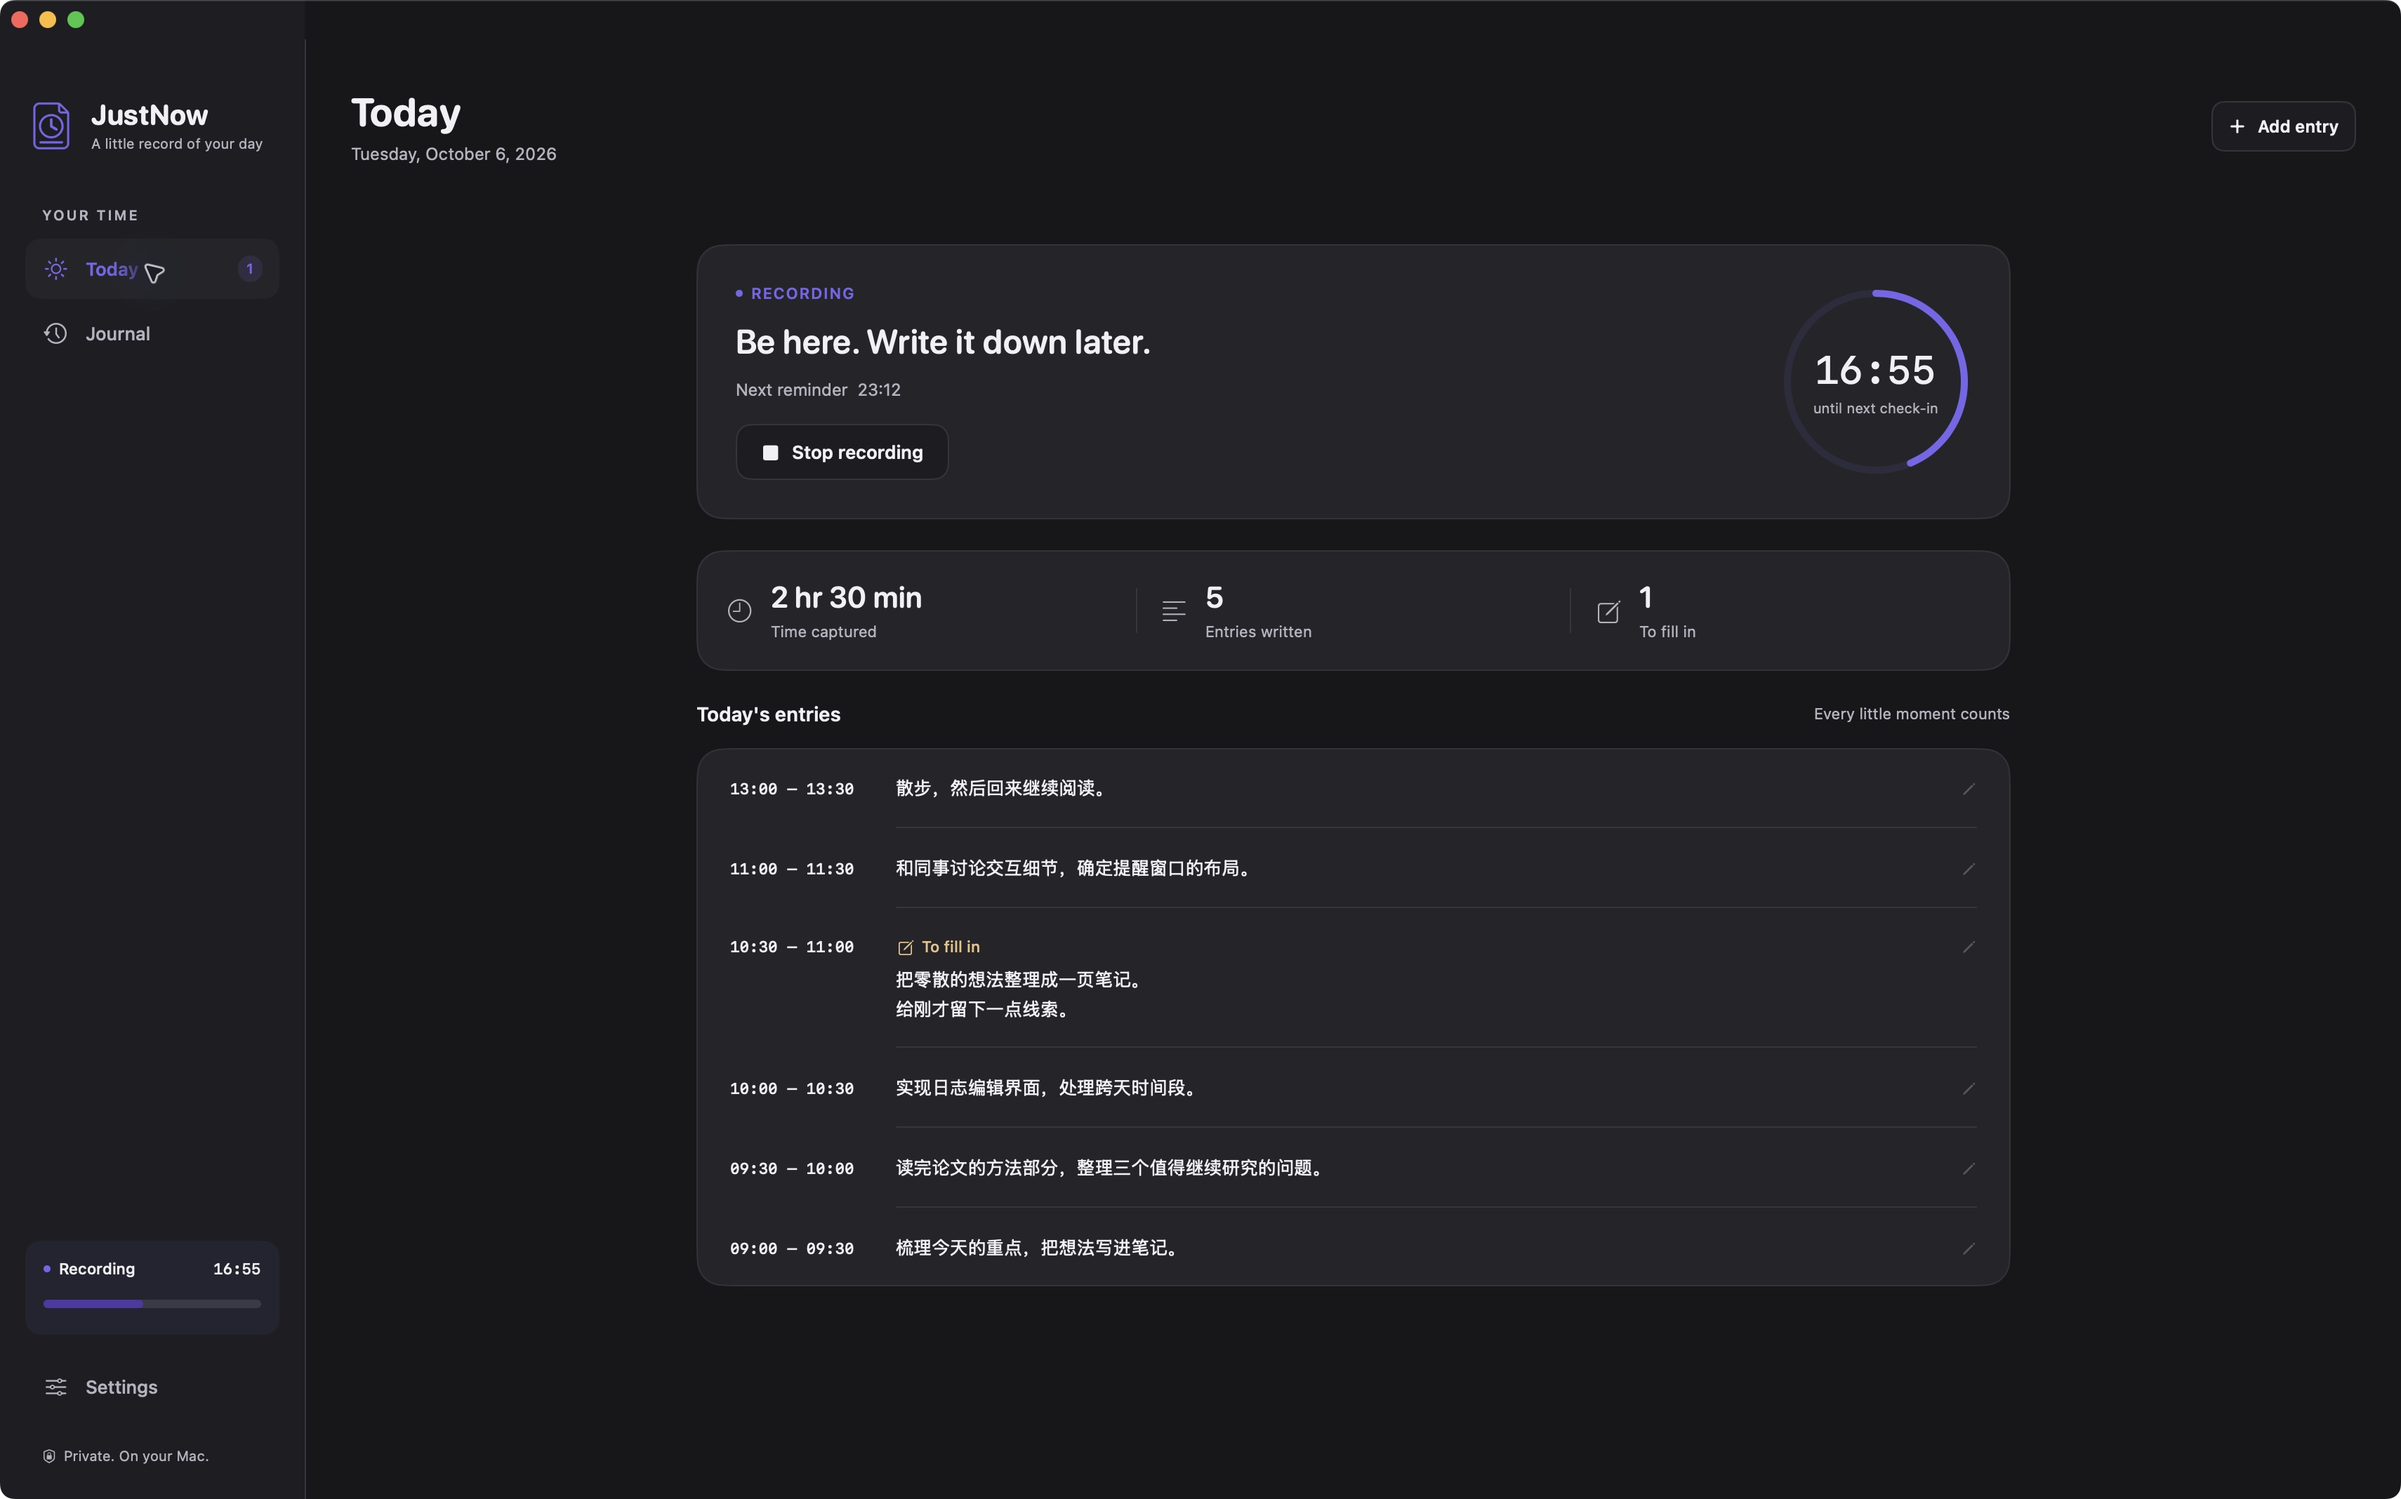
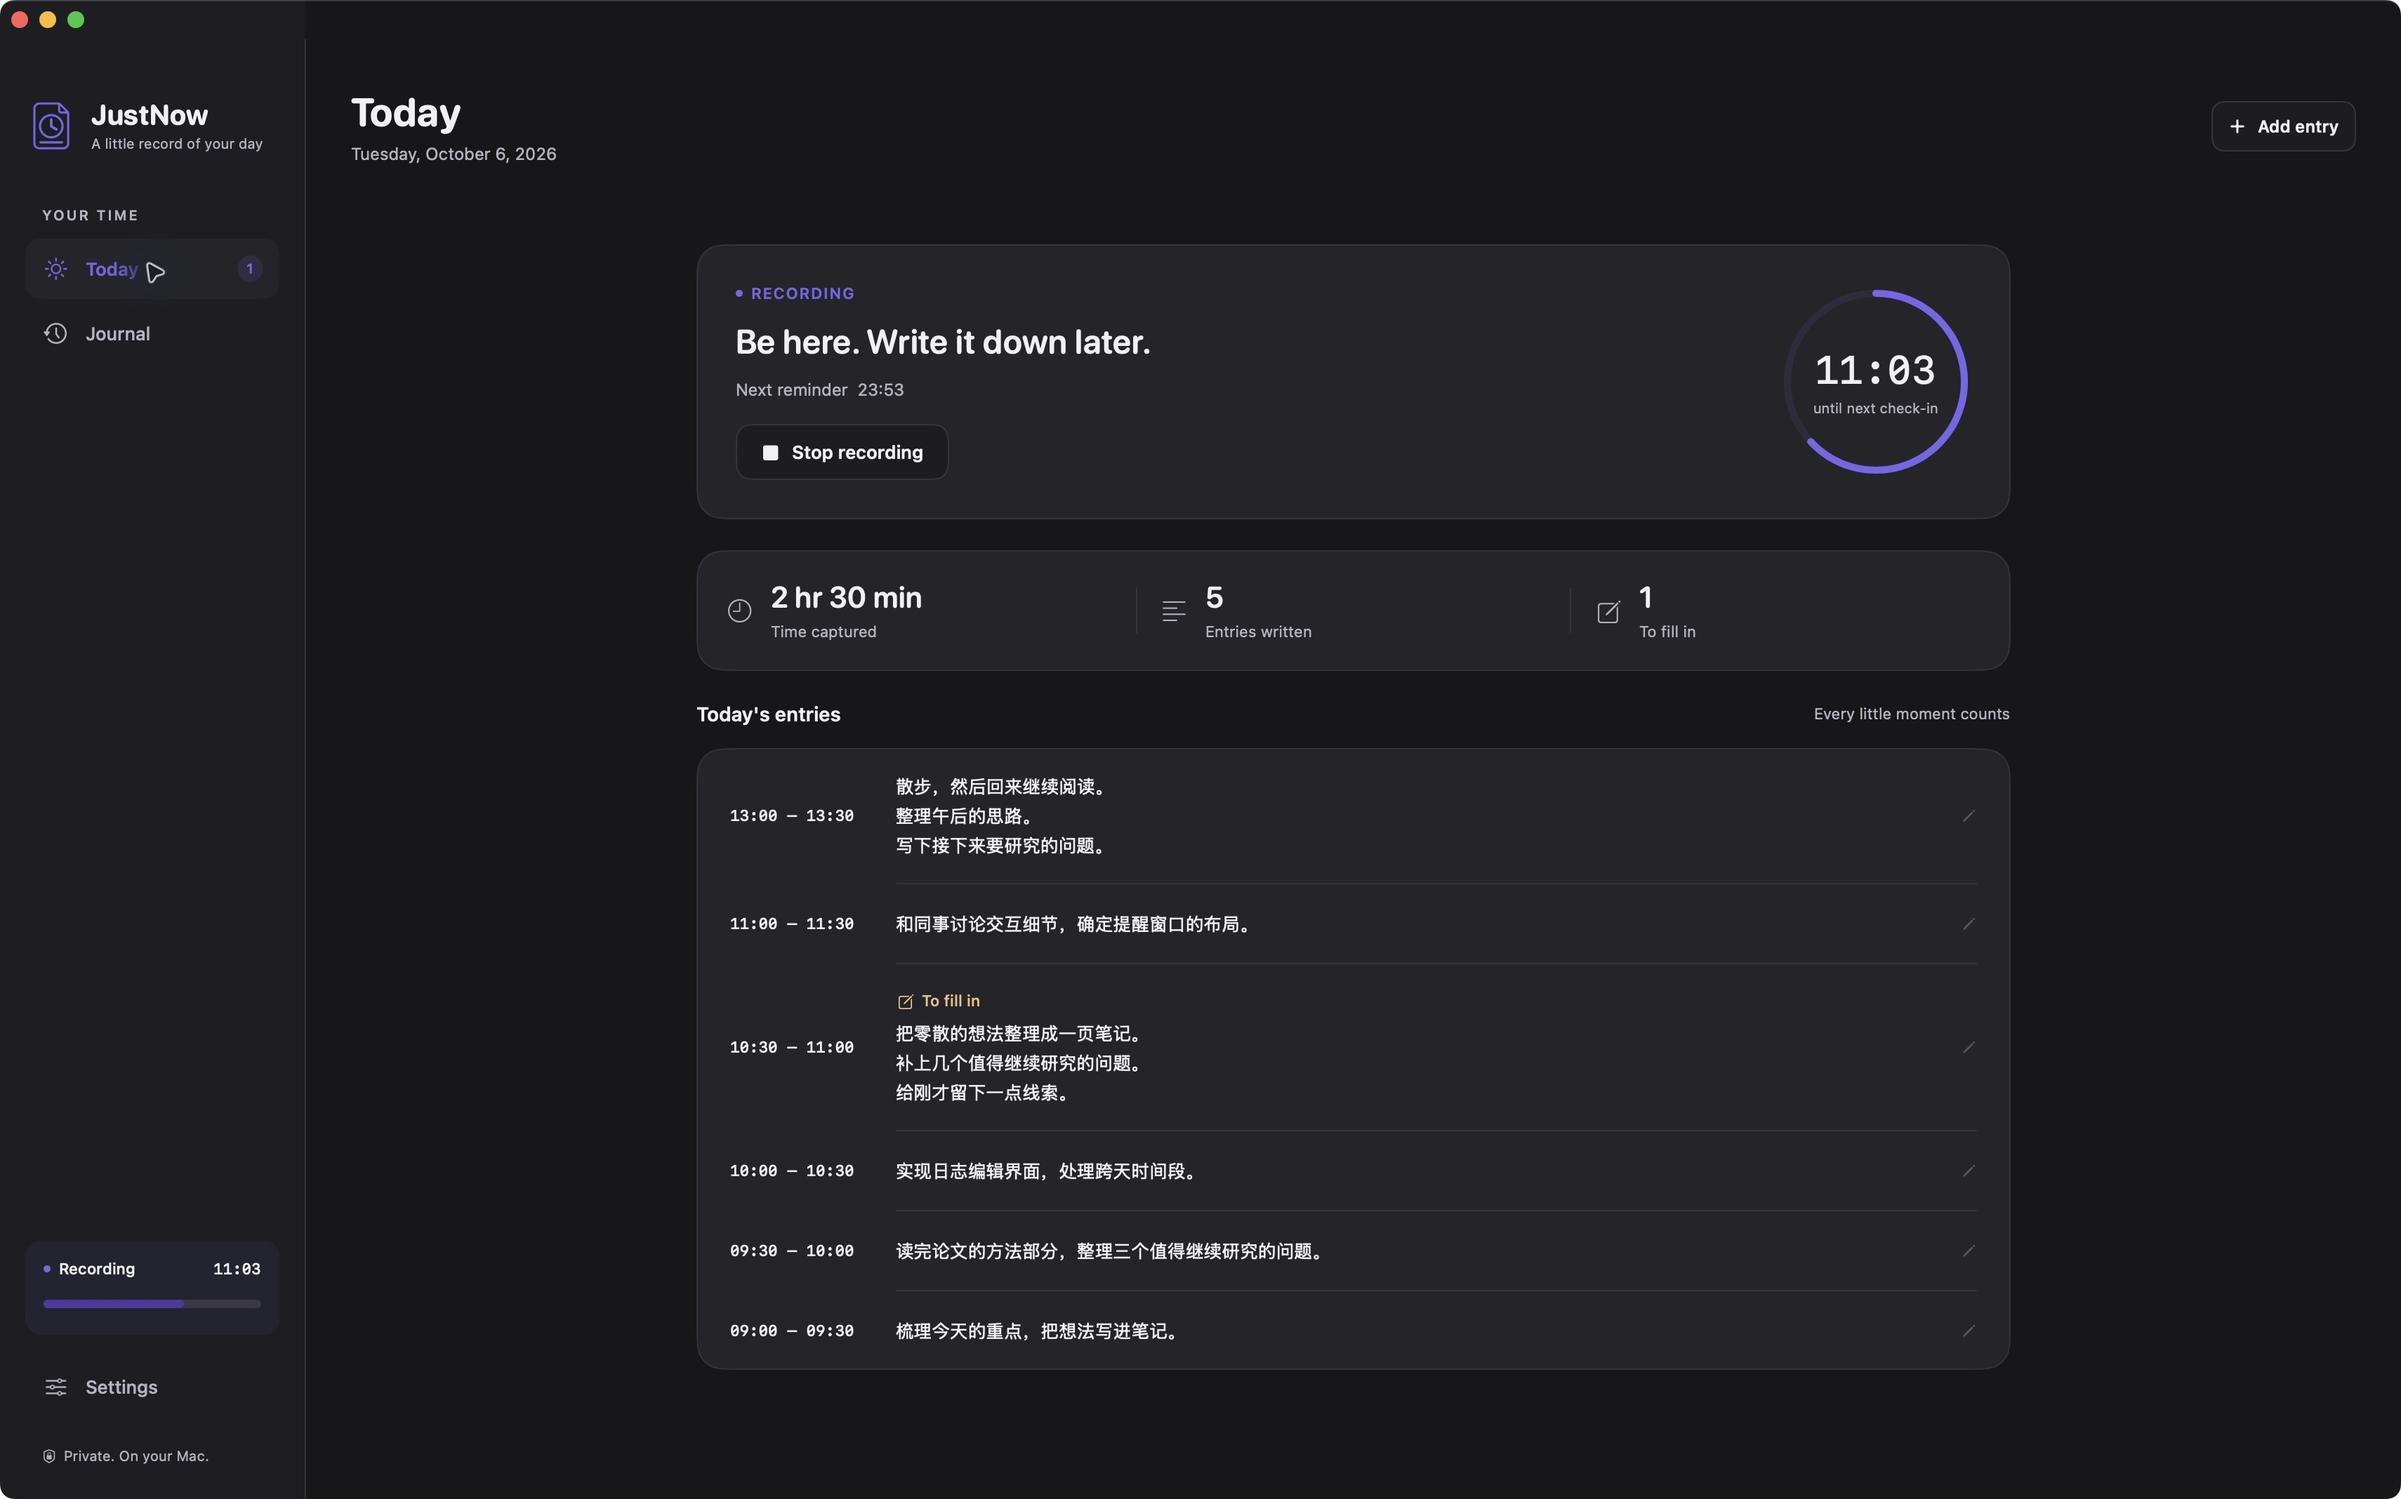
Center timeline rows and simplify time selection

diff --git a/Sources/JustNow/Controls.swift b/Sources/JustNow/Controls.swift
@@ -349,7 +349,7 @@ private struct JournalTimeChooser: View {
     let close: () -> Void
     @State private var hour: Int
     @State private var minute: Int
-    @State private var minuteGroup: Int
+    @State private var choosingHour = true
     private let calendar = Calendar(identifier: .gregorian)
     private var chinese: Bool { locale.identifier.hasPrefix("zh") }
     private var selectedDate: Date? { CalendarSelection.replacingTime(of: date, hour: hour, minute: minute, calendar: calendar) }
@@ -360,48 +360,53 @@ private struct JournalTimeChooser: View {
         self.close = close
         let calendar = Calendar(identifier: .gregorian)
         _hour = State(initialValue: calendar.component(.hour, from: date.wrappedValue))
-        let minute = calendar.component(.minute, from: date.wrappedValue)
-        _minute = State(initialValue: minute)
-        _minuteGroup = State(initialValue: minute / 10)
+        _minute = State(initialValue: calendar.component(.minute, from: date.wrappedValue))
     }
 
     var body: some View {
         VStack(alignment: .leading, spacing: 16) {
-            HStack(alignment: .firstTextBaseline) {
-                Text(chinese ? "选择时间" : "Choose time").font(.system(size: 13, weight: .semibold))
-                Spacer()
-                Text(String(format: "%02d:%02d", hour, minute))
-                    .font(.system(size: 22, weight: .medium, design: .rounded)).monospacedDigit().foregroundStyle(Theme.accent)
+            HStack(spacing: 8) {
+                Button { choosingHour = true } label: {
+                    VStack(spacing: 4) {
+                        Text(chinese ? "小时" : "Hour").font(.system(size: 11)).foregroundStyle(Theme.secondary)
+                        Text(String(format: "%02d", hour)).font(.system(size: 22, weight: .medium, design: .rounded)).monospacedDigit()
+                    }
+                    .calendarChoiceLabel(height: 64)
+                }
+                .buttonStyle(CalendarChoiceStyle(selected: choosingHour))
+                .accessibilityLabel(chinese ? "选择小时" : "Choose hour")
+                .accessibilityValue(String(format: "%02d", hour))
+                .accessibilityAddTraits(choosingHour ? .isSelected : [])
+                Text(":").font(.system(size: 22, weight: .medium)).foregroundStyle(Theme.secondary)
+                Button { choosingHour = false } label: {
+                    VStack(spacing: 4) {
+                        Text(chinese ? "分钟" : "Minute").font(.system(size: 11)).foregroundStyle(Theme.secondary)
+                        Text(String(format: "%02d", minute)).font(.system(size: 22, weight: .medium, design: .rounded)).monospacedDigit()
+                    }
+                    .calendarChoiceLabel(height: 64)
+                }
+                .buttonStyle(CalendarChoiceStyle(selected: !choosingHour))
+                .accessibilityLabel(chinese ? "选择分钟" : "Choose minute")
+                .accessibilityValue(String(format: "%02d", minute))
+                .accessibilityAddTraits(!choosingHour ? .isSelected : [])
             }
             VStack(alignment: .leading, spacing: 8) {
-                Text(chinese ? "小时 · 24 小时制" : "Hour · 24-hour clock")
-                    .font(.system(size: 11)).foregroundStyle(Theme.secondary)
+                HStack {
+                    Text(choosingHour ? (chinese ? "选择小时" : "Choose an hour") : (chinese ? "选择分钟" : "Choose a minute"))
+                    Spacer()
+                    Text(chinese ? "24 小时制" : "24-hour clock")
+                }
+                .font(.system(size: 11)).foregroundStyle(Theme.secondary)
                 LazyVGrid(columns: Array(repeating: GridItem(.flexible(), spacing: 4), count: 6), spacing: 4) {
-                    ForEach(0..<24) { value in
-                        Button { hour = value } label: { Text(String(format: "%02d", value)).monospacedDigit().calendarChoiceLabel() }
-                            .buttonStyle(CalendarChoiceStyle(selected: hour == value))
-                            .accessibilityLabel(chinese ? "\(value)时" : "Hour \(value)")
-                            .accessibilityAddTraits(hour == value ? .isSelected : [])
-                    }
-                }
-            }
-            VStack(alignment: .leading, spacing: 8) {
-                Text(chinese ? "分钟" : "Minute").font(.system(size: 11)).foregroundStyle(Theme.secondary)
-                HStack(spacing: 4) {
-                    ForEach(0..<6) { group in
-                        Button { minuteGroup = group } label: { Text(String(format: "%02d–%02d", group * 10, group * 10 + 9)).font(.system(size: 10, weight: .medium)).monospacedDigit().calendarChoiceLabel() }
-                            .buttonStyle(CalendarChoiceStyle(selected: minuteGroup == group))
-                            .accessibilityLabel(chinese ? "\(group * 10)至\(group * 10 + 9)分" : "Minutes \(group * 10) to \(group * 10 + 9)")
-                            .accessibilityAddTraits(minuteGroup == group ? .isSelected : [])
-                    }
-                }
-                LazyVGrid(columns: Array(repeating: GridItem(.flexible(), spacing: 4), count: 5), spacing: 4) {
-                    ForEach((minuteGroup * 10)..<(minuteGroup * 10 + 10), id: \.self) { value in
-                        Button { minute = value } label: { Text(String(format: "%02d", value)).monospacedDigit().calendarChoiceLabel() }
-                            .buttonStyle(CalendarChoiceStyle(selected: minute == value))
-                            .disabled(CalendarSelection.replacingTime(of: date, hour: hour, minute: value, calendar: calendar) == nil)
-                            .accessibilityLabel(chinese ? "\(value)分" : "Minute \(value)")
-                            .accessibilityAddTraits(minute == value ? .isSelected : [])
+                    ForEach(0..<(choosingHour ? 24 : 60), id: \.self) { value in
+                        Button {
+                            if choosingHour { hour = value; choosingHour = false }
+                            else { minute = value }
+                        } label: { Text(String(format: "%02d", value)).monospacedDigit().calendarChoiceLabel() }
+                        .buttonStyle(CalendarChoiceStyle(selected: (choosingHour ? hour : minute) == value))
+                        .disabled(!choosingHour && CalendarSelection.replacingTime(of: date, hour: hour, minute: value, calendar: calendar) == nil)
+                        .accessibilityLabel(choosingHour ? (chinese ? "\(value)时" : "Hour \(value)") : (chinese ? "\(value)分" : "Minute \(value)"))
+                        .accessibilityAddTraits((choosingHour ? hour : minute) == value ? .isSelected : [])
                     }
                 }
             }
@@ -440,6 +445,7 @@ private struct CalendarChoiceSurface: View {
     let today: Bool
     @Environment(\.isEnabled) private var enabled
     @Environment(\.isFocused) private var focused
+    @Environment(\.colorScheme) private var colorScheme
     @State private var hovering = false
 
     var body: some View {
@@ -447,7 +453,7 @@ private struct CalendarChoiceSurface: View {
         configuration.label
             .font(.system(size: 12, weight: selected || today ? .semibold : .medium))
             .lineLimit(1).minimumScaleFactor(0.85)
-            .foregroundStyle(selected || today ? Theme.accent : Theme.ink)
+            .foregroundStyle((selected || today) && colorScheme != .dark ? Theme.accent : Theme.ink)
             .background(selected ? Theme.accent.opacity(0.14) : hovering ? Theme.inset : .clear, in: shape)
             .overlay(shape.strokeBorder(focused ? Theme.accent.opacity(0.6) : today ? Theme.accent.opacity(0.25) : .clear))
             .opacity(enabled ? configuration.isPressed ? 0.65 : 1 : 0.3)

diff --git a/Sources/JustNow/Views.swift b/Sources/JustNow/Views.swift
@@ -363,7 +363,7 @@ private struct EntryRow: View {
     @State private var hovering = false
     var body: some View {
         Button { model.openEditor(entry) } label: {
-            HStack(alignment: .firstTextBaseline, spacing: 20) {
+            HStack(alignment: .center, spacing: 20) {
                 Text(timeLabel(entry.start) + " – " + timeLabel(entry.end))
                     .font(.system(size: 11, weight: .medium, design: .monospaced))
                     .frame(width: 98, alignment: .leading)
@@ -384,7 +384,7 @@ private struct EntryRow: View {
                 }
                 .frame(maxWidth: .infinity, alignment: .leading)
                 Image(systemName: "pencil").font(.system(size: 11)).foregroundStyle(Theme.secondary)
-                    .opacity(hovering ? 1 : 0.35).padding(.top, 3)
+                    .opacity(hovering ? 1 : 0.35)
             }
             .padding(.horizontal, 24).padding(.vertical, 19)
             .frame(minHeight: 56)
@@ -511,7 +511,7 @@ private struct SettingsView: View {
             HStack {
                 BrandMark(size: 22)
                 Text("JustNow").font(.system(size: 12, weight: .semibold, design: .rounded))
-                Text(Bundle.main.object(forInfoDictionaryKey: "CFBundleShortVersionString") as? String ?? "0.1.5")
+                Text(Bundle.main.object(forInfoDictionaryKey: "CFBundleShortVersionString") as? String ?? "0.1.6")
                     .font(.system(size: 11)).foregroundStyle(Theme.secondary)
                 Spacer()
                 Text(model.text("用 MIT 许可开源 · 为日常留一点空间", "Open source under MIT · A little room for your day"))

diff --git a/Sources/JustNow/JustNowApp.swift b/Sources/JustNow/JustNowApp.swift
@@ -219,7 +219,7 @@ final class AppDelegate: NSObject, NSApplicationDelegate, NSWindowDelegate, NSMe
     @objc private func showAbout() {
         NSApp.orderFrontStandardAboutPanel(options: [
             .applicationName: "JustNow · 刚才",
-            .applicationVersion: Bundle.main.object(forInfoDictionaryKey: "CFBundleShortVersionString") as? String ?? "0.1.5",
+            .applicationVersion: Bundle.main.object(forInfoDictionaryKey: "CFBundleShortVersionString") as? String ?? "0.1.6",
             .credits: NSAttributedString(string: model.text("一句话，留下刚才。\n免费开源 · MIT", "A small pause. A clearer day.\nFree & open source · MIT"))
         ])
     }

diff --git a/CHANGELOG.md b/CHANGELOG.md
@@ -1,5 +1,10 @@
 # Changelog
 
+## 0.1.6
+
+- 时间线行中的时间、正文与编辑按钮统一垂直居中对齐。
+- 时间选择改为小时和分钟分开的数字网格，提高深色选中项文字对比度，保留确认、取消与夏令时校验。
+
 ## 0.1.5
 
 - macOS Dock 和 Finder 图标增加白色圆角底板，保留紫色文档与时钟轮廓；应用内继续使用透明品牌标识。
